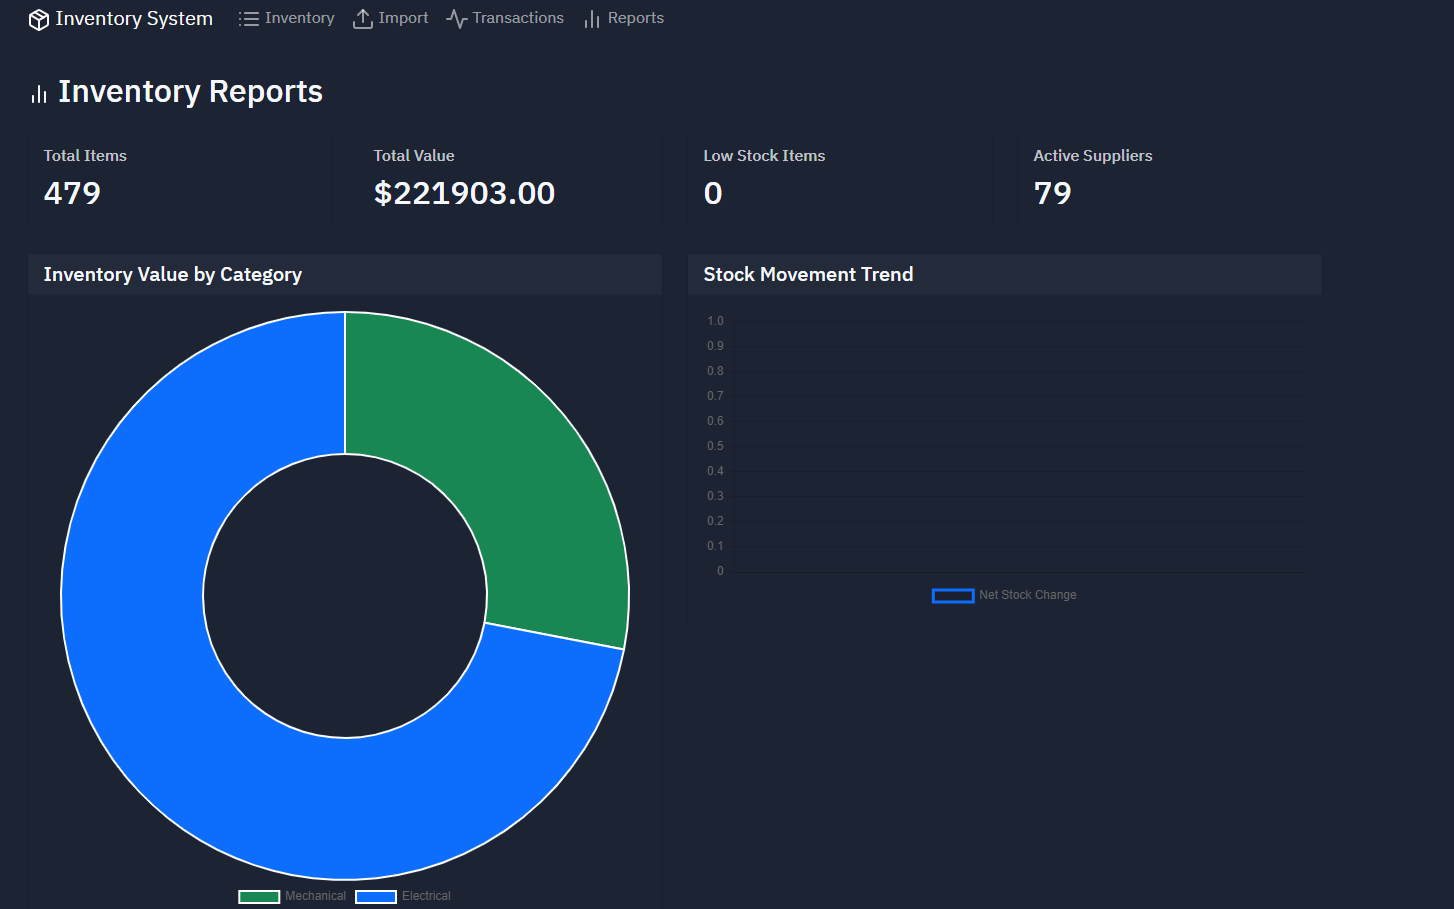
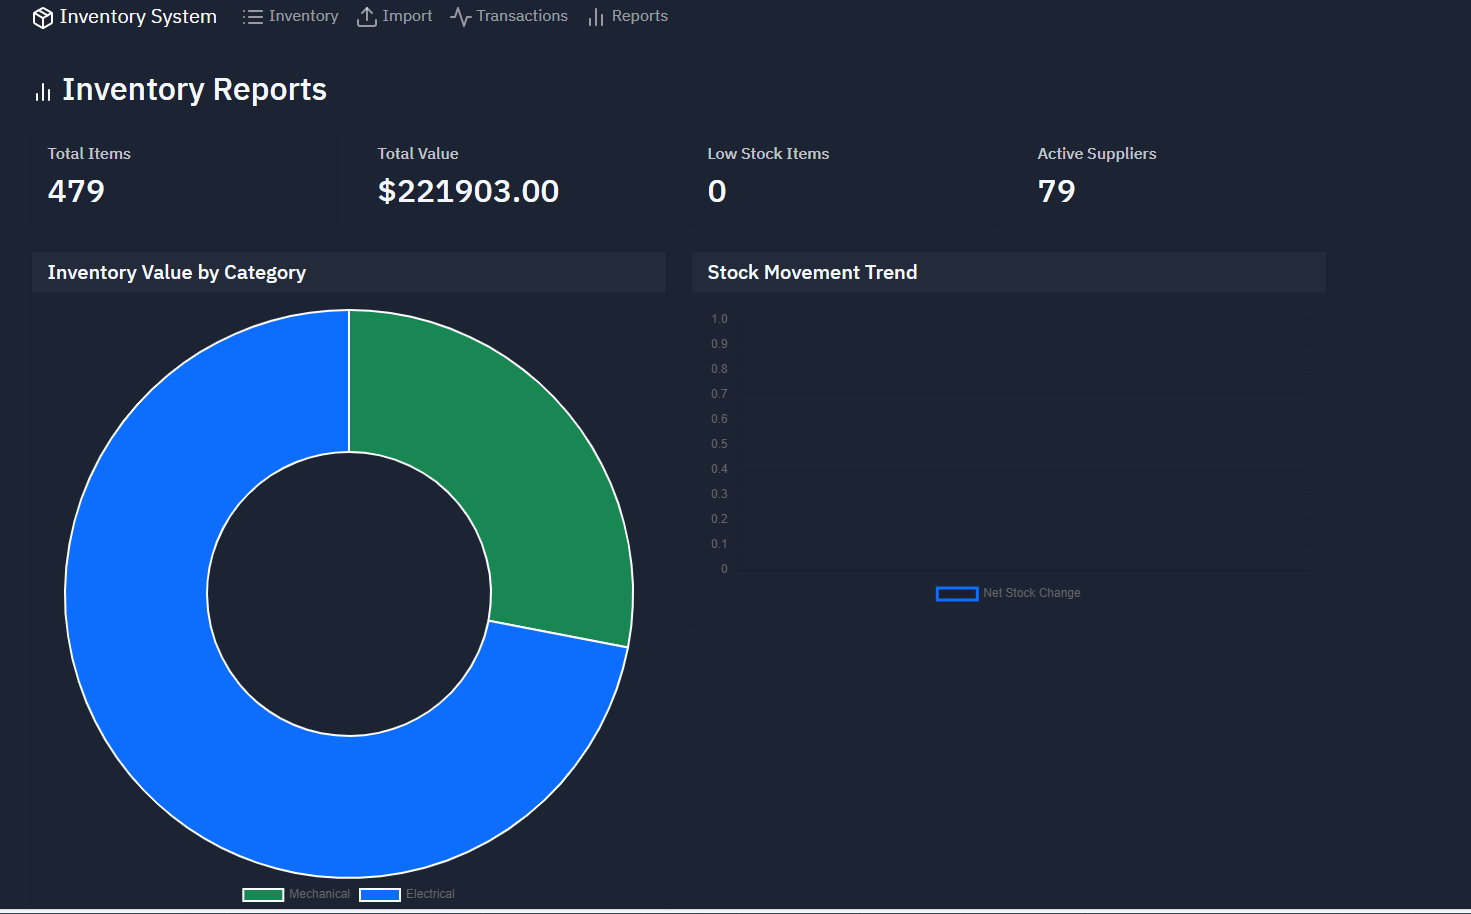
Agent query: Is the stock movement trend chart now showing data points with proper date labels and net stock changes? The chart should display a continuous line even for days with no transactions.
Improve stock movement report chart with date handling and styling.

Screenshot: https://storage.googleapis.com/screenshot-production-us-central1/01e03720-7642-4910-ba78-20549a1c21e2/8d54ac97-2631-4e15-bdb9-039ecfac51a4.jpg

diff --git a/static/js/reports.js b/static/js/reports.js
@@ -28,12 +28,34 @@ document.addEventListener('DOMContentLoaded', function() {
                 plugins: {
                     legend: {
                         position: 'bottom',
+                    },
+                    tooltip: {
+                        mode: 'index',
+                        intersect: false,
                     }
                 },
                 scales: {
                     y: {
-                        beginAtZero: true
+                        beginAtZero: true,
+                        title: {
+                            display: true,
+                            text: 'Net Change in Stock'
+                        }
+                    },
+                    x: {
+                        display: true,
+                        title: {
+                            display: true,
+                            text: 'Date'
+                        },
+                        ticks: {
+                            maxTicksLimit: 10
+                        }
                     }
+                },
+                interaction: {
+                    intersect: false,
+                    mode: 'nearest'
                 }
             }
         });

diff --git a/routes.py b/routes.py
@@ -214,6 +214,15 @@ def reports():
     
     # Get stock movement trend for the last 30 days
     thirty_days_ago = datetime.utcnow() - timedelta(days=30)
+    
+    # Create a series of dates
+    dates = []
+    current = thirty_days_ago
+    while current <= datetime.utcnow():
+        dates.append(current.date())
+        current += timedelta(days=1)
+
+    # Query transactions
     stock_movement = db.session.query(
         db.func.date_trunc('day', InventoryTransaction.transaction_date).label('date'),
         db.func.sum(db.case(
@@ -227,15 +236,27 @@ def reports():
         'date'
     ).order_by('date').all()
     
+    # Create a dictionary of date to net change
+    movement_dict = {movement.date.date(): movement.net_change or 0 for movement in stock_movement}
+    
+    # Fill in missing dates with zero
+    complete_movement = [(date, movement_dict.get(date, 0)) for date in dates]
+    
     stock_movement_data = {
-        'labels': [date.strftime('%Y-%m-%d') for date, _ in stock_movement],
+        'labels': [date.strftime('%Y-%m-%d') for date, _ in complete_movement],
         'datasets': [{
             'label': 'Net Stock Change',
-            'data': [int(change) for _, change in stock_movement],
+            'data': [int(change) for _, change in complete_movement],
             'borderColor': '#0d6efd',
-            'tension': 0.1
+            'backgroundColor': 'rgba(13, 110, 253, 0.1)',
+            'tension': 0.1,
+            'fill': True
         }]
     }
+    
+    # Add debug logging
+    logger.debug(f"Stock movement dates: {[date.strftime('%Y-%m-%d') for date, _ in complete_movement]}")
+    logger.debug(f"Stock movement values: {[int(change) for _, change in complete_movement]}")
     
     # Add debug logging
     logger.debug(f"Category Value Data: {category_value_data}")
